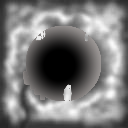
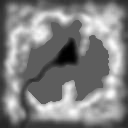
terrain final version

Changed region(s): [[0.1562, 0.1562, 0.875, 0.8125]]

diff --git a/PROJ/projB/MyTerrain.js b/PROJ/projB/MyTerrain.js
@@ -10,16 +10,19 @@ class MyTerrain extends CGFobject {
 
         this.terrainTexture = new CGFtexture(this.scene, "images/terrain.jpg");
         this.terrainHeightMap = new CGFtexture(this.scene, "images/heightmap.png");
+        this.terrainGradient = new CGFtexture(this.scene, "images/altimetry.png");
         this.ground = new Plane(scene, 60);
         this.shader = new CGFshader(this.scene.gl, "shaders/terrainShaders/terrain.vert", "shaders/terrainShaders/terrain.frag");
     }
 
     display() {
+        this.shader.setUniformsValues({ gradient: 2 });
         this.shader.setUniformsValues({ uSampler2: 1 });
         this.shader.setUniformsValues({ uSampler: 0 });
 
         this.terrainTexture.bind(0);
         this.terrainHeightMap.bind(1);
+        this.terrainGradient.bind(2);
 
         this.scene.setActiveShader(this.shader);
         this.scene.pushMatrix()
